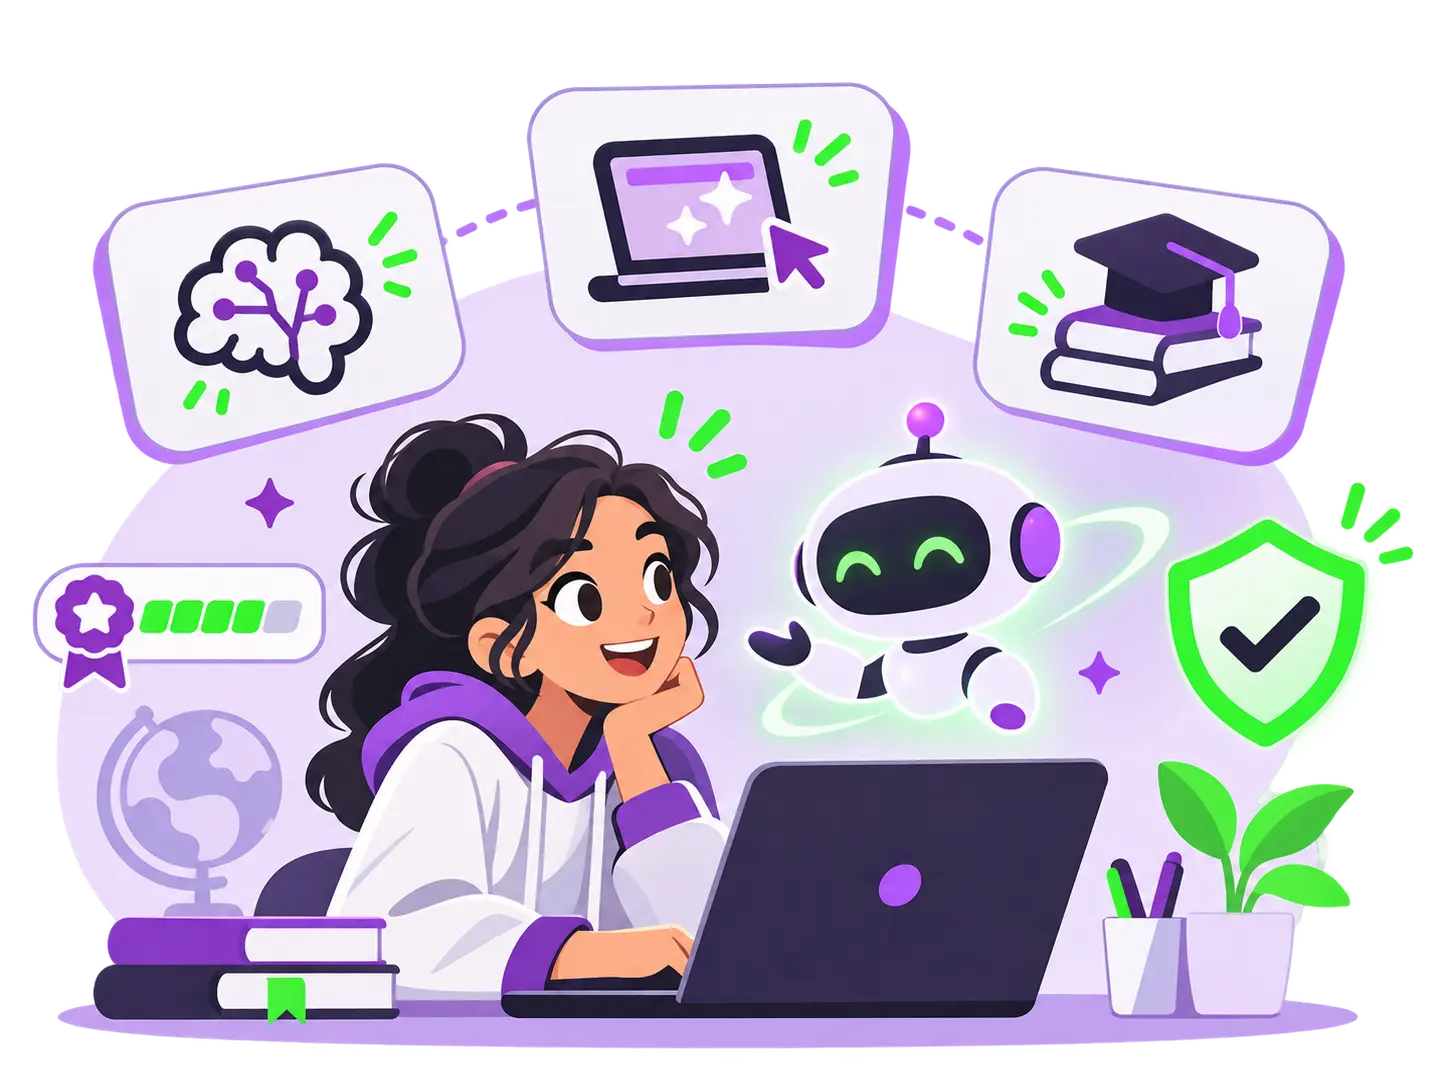
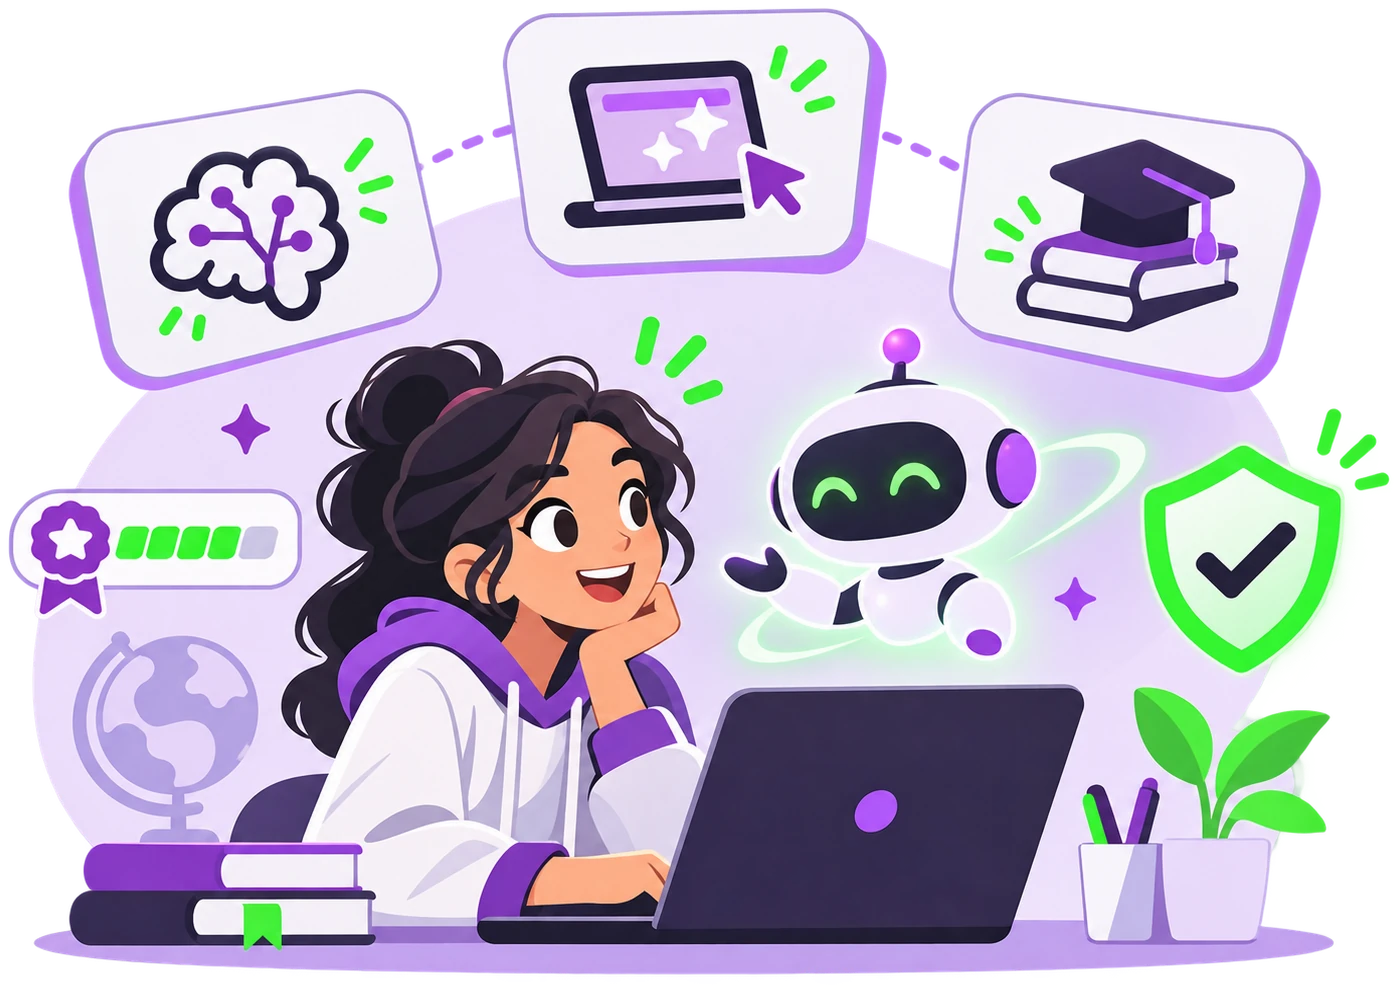
Footer fix, image with less whitespace

diff --git a/index.html b/index.html
@@ -28,12 +28,9 @@
                     </div>
                     <img src="assets/hero_image.webp" alt="Hero AI Image">
                 </div>
-                
-                
             </div>
-            
         </main>
-
+        <br>
         <footer>
             <a class="logo" href="index.html">Academy<span class="dot">.</span></a>
             <p>Learn AI the Right Way</p>

diff --git a/css/style.css b/css/style.css
@@ -102,3 +102,15 @@ main {
 .cta {
     width: 50%;
 }
+
+.hero {
+    padding: 0px 0px 0px 20px;
+}
+
+footer {
+    border-top: 1px solid #d5d8d2;
+    display: flex;
+    justify-content: space-between;
+    align-items: center;
+    padding: 20px 32px;
+}
